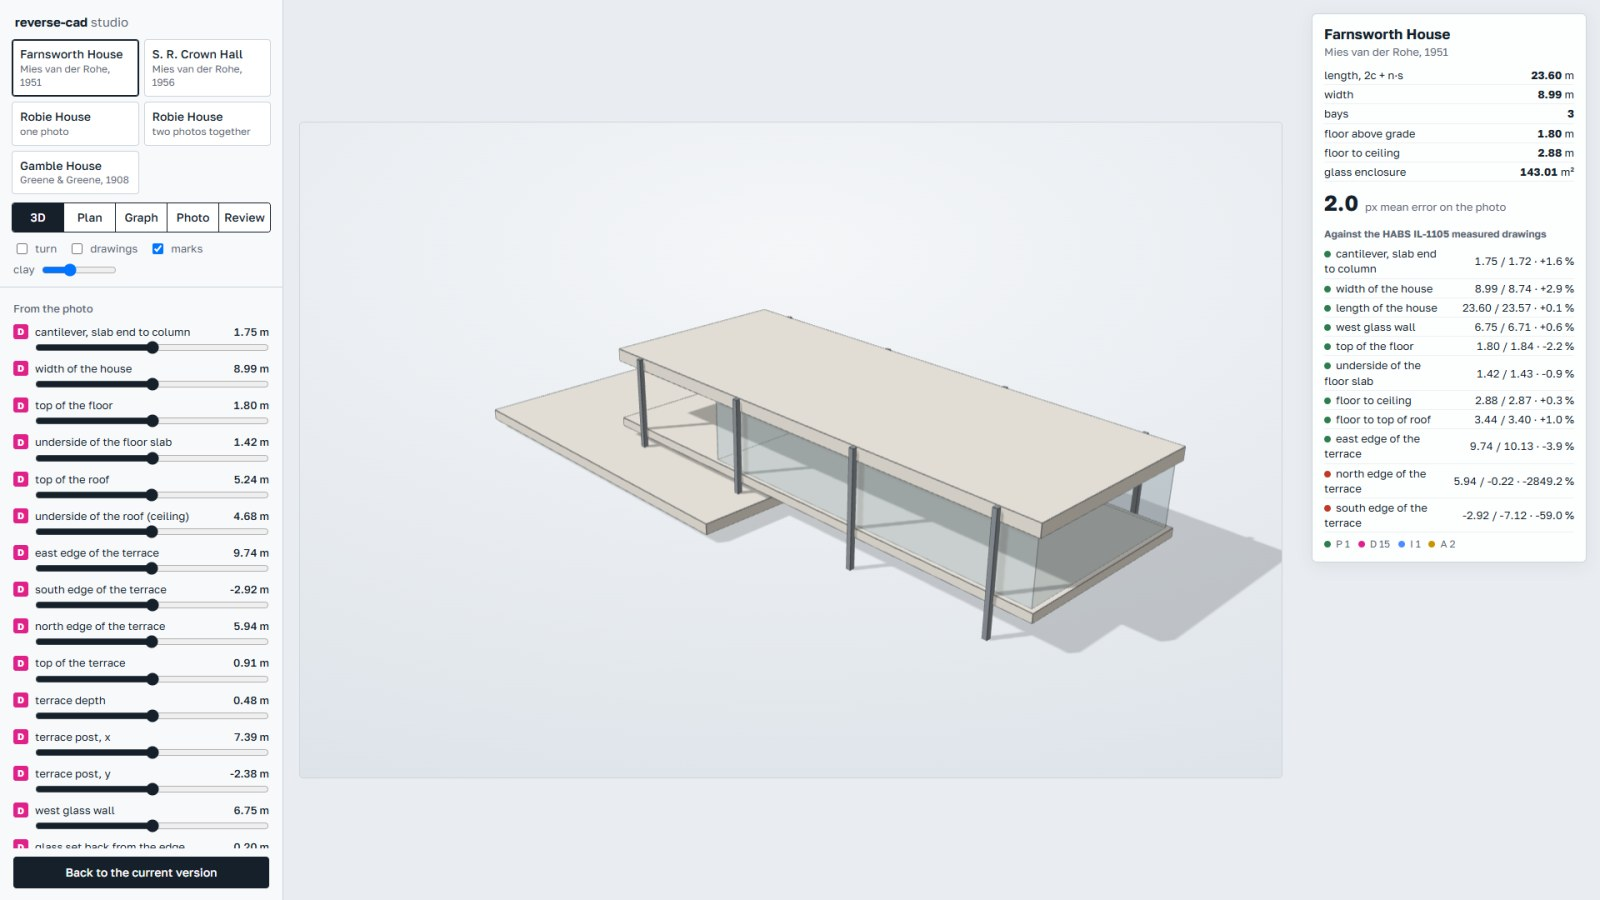
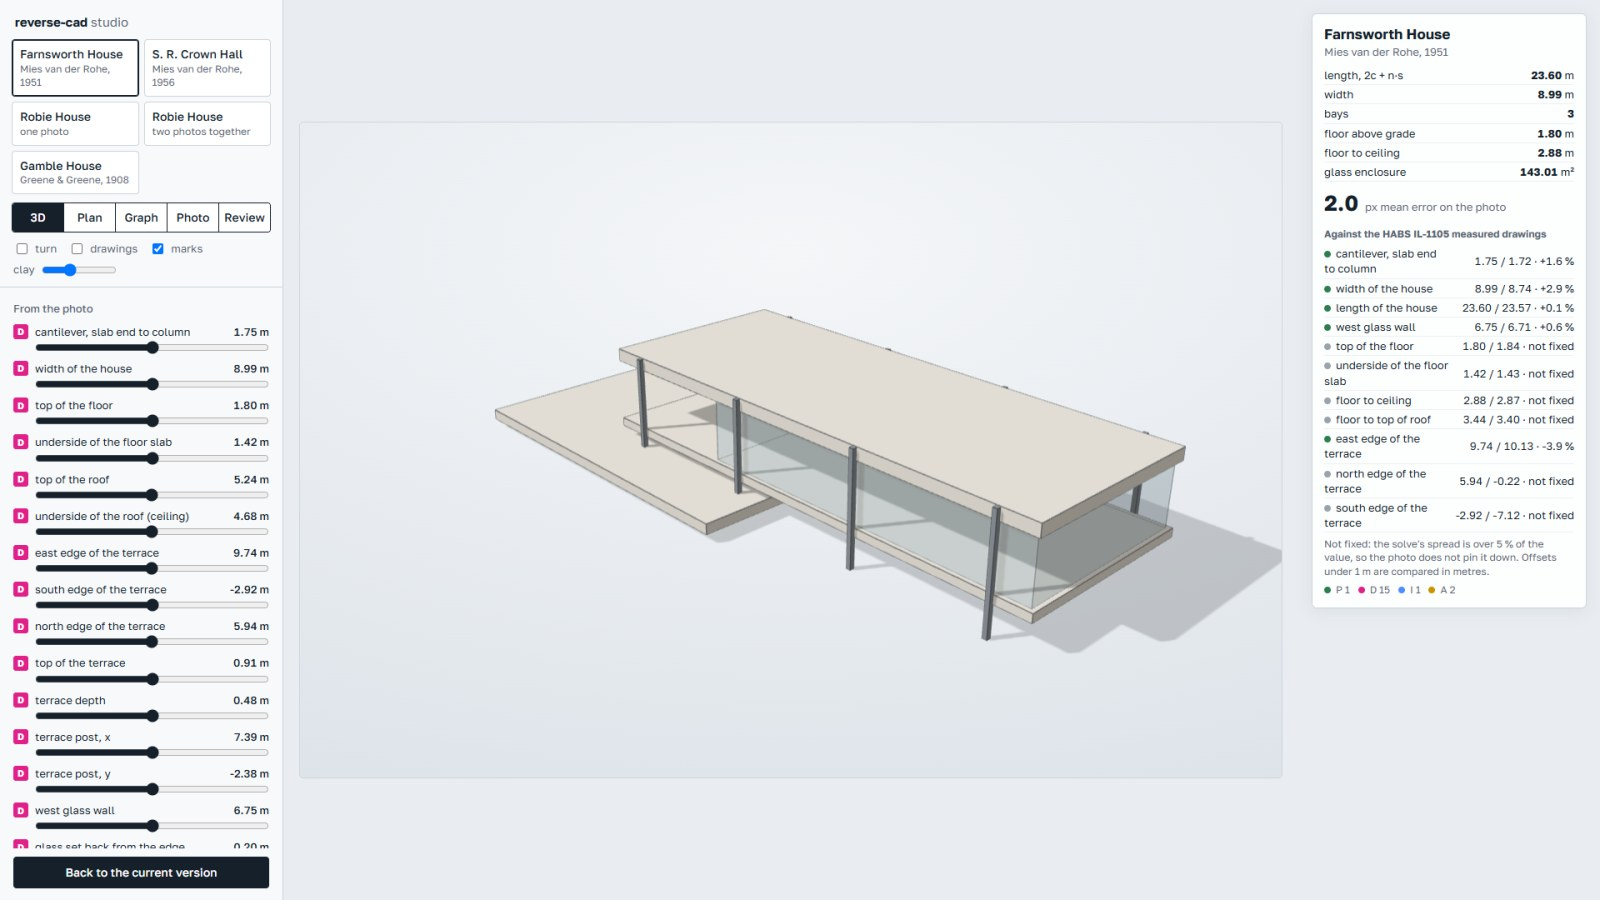
studio: judge checks by the bench rule
A value whose bootstrap spread is over 5 % is shown as not fixed instead of
a red percentage, and offsets under 1 m are compared in metres. The Farnsworth
terrace edges read -2849 % before, a percentage of a near-zero coordinate the
photo does not determine. Review uses the same rule. Screenshots re-taken.

Changed region(s): [[0.8125, 0.5289, 1.0, 0.6533], [0.9062, 0.3733, 1.0, 0.4978], [0.8125, 0.4044, 0.8438, 0.4356]]

diff --git a/studio/index.html b/studio/index.html
@@ -66,6 +66,7 @@
   .fit b { font-size: 26px; font-variant-numeric: tabular-nums; }
   .fit span { color: var(--muted); }
   .grades { display: flex; gap: 10px; margin-top: 6px; color: var(--muted); font-size: 12px; }
+  .info .note { margin: 6px 0 0; color: var(--muted); font-size: 12px; line-height: 1.35; }
   .ref { position: absolute; inset: 0; display: flex; flex-direction: column; align-items: center; justify-content: center;
          background: rgba(21,32,43,.55); opacity: 0; transition: opacity .45s; pointer-events: none; }
   .ref.on { opacity: 1; }
@@ -574,20 +575,33 @@ function showVal(k) {
   el.textContent = fmt(P[k]) + (MODELS[cur.model].design[k]?.step === 1 ? '' : ' m');
   el.classList.toggle('moved', Math.abs(P[k] - (main || P0)[k]) > 1e-9);
 }
+function judge(k, v, t) {
+  // the same rule as tools/bench.py: a bootstrap spread over 5 % of the value means the photo does not fix it
+  const used = (k.match(/[A-Za-z_]\w*/g) || []).filter(n => n in cur.sd);
+  if (used.some(n => cur.sd[n] > 0.05 * Math.abs(cur.params[n])))
+    return { und: true, c: '#9aa3ab', err: 'not fixed' };
+  if (Math.abs(t) < 1) {  // a percentage of a small offset says little: give metres
+    const d = v - t, a = Math.abs(d);
+    return { ok: a <= 0.05, c: a <= 0.05 ? '#2f7d4f' : a <= 0.10 ? '#c99400' : '#c0392b', err: `${d > 0 ? '+' : ''}${d.toFixed(2)} m` };
+  }
+  const e = 100 * (v - t) / t, a = Math.abs(e);
+  return { ok: a <= 5, c: a <= 5 ? '#2f7d4f' : a <= 10 ? '#c99400' : '#c0392b', err: `${e > 0 ? '+' : ''}${e.toFixed(1)} %` };
+}
 function info() {
   if (view === 'review') return reviewPanel();
   const m = MODELS[cur.model].metrics(P), names = Object.keys(P), vals = names.map(k => P[k]);
-  let checks = '';
+  let checks = '', nund = 0;
   for (const [k, t] of Object.entries(cur.truth)) {
     let v; try { v = new Function(...names, 'return (' + k + ');')(...vals); } catch (e) { continue; }
-    const e = 100 * (v - t) / t, c = Math.abs(e) <= 5 ? '#2f7d4f' : Math.abs(e) <= 10 ? '#c99400' : '#c0392b';
-    checks += `<tr><td><span class="dot" style="background:${c}"></span>${cur.labels[k] || k}</td><td>${v.toFixed(2)} / ${t.toFixed(2)} · ${e > 0 ? '+' : ''}${e.toFixed(1)} %</td></tr>`;
+    const j = judge(k, v, t); if (j.und) nund++;
+    checks += `<tr><td><span class="dot" style="background:${j.c}"></span>${cur.labels[k] || k}</td><td>${v.toFixed(2)} / ${t.toFixed(2)} · ${j.err}</td></tr>`;
   }
   const n = { P: 0, D: 0, I: 0, A: 0 }; for (const k of names) n[gradeOf(k)]++;
   $('info').innerHTML = `<h1>${cur.title}</h1><p class="by">${cur.by}</p>
     <table>${m.map(([l, v, u]) => `<tr><td>${l}</td><td><b>${u === '' ? v : v.toFixed(u === '°' ? 1 : 2)}</b> ${u}</td></tr>`).join('')}</table>
     <div class="fit"><b>${rms(P).toFixed(1)}</b><span>px mean error on the photo${cur.photos > 1 ? ' (one of ' + cur.photos + ')' : ''}</span></div>
     <div class="sec">Against the ${cur.ref}</div><table>${checks}</table>
+    ${nund ? `<p class="note">Not fixed: the solve's spread is over 5 % of the value, so the ${cur.photos > 1 ? 'photos do' : 'photo does'} not pin it down. Offsets under 1 m are compared in metres.</p>` : ''}
     <div class="grades">${Object.entries(n).map(([g, c]) => `<span><span class="dot" style="background:${GC[g]}"></span>${g} ${c}</span>`).join('')}</div>`;
 }
 
@@ -633,7 +647,7 @@ function elemDiff(A, B) {
 function checkState(Q) {
   const names = Object.keys(Q), vals = names.map(k => Q[k]), out = {};
   for (const [k, t] of Object.entries(cur.truth)) {
-    try { const v = new Function(...names, 'return (' + k + ');')(...vals); out[k] = Math.abs(100 * (v - t) / t) <= 5; } catch (e) {}
+    try { const j = judge(k, new Function(...names, 'return (' + k + ');')(...vals), t); if (!j.und) out[k] = j.ok; } catch (e) {}
   }
   return out;
 }
@@ -658,7 +672,7 @@ function reviewPanel() {
     const groupList = (ids, c) => [...new Set(ids.map(groupOf))].map(g => { const n = ids.filter(id => groupOf(id) === g).length;
       return `<tr><td><span class="dot" style="background:${c}"></span>${g}${n > 1 ? ' ×' + n : ''}${why(ids.find(id => groupOf(id) === g))}</td><td></td></tr>`; }).join('');
     const c0 = checkState(main), c1 = checkState(P);
-    const flips = Object.keys(c1).filter(k => c0[k] !== c1[k]).map(k => `<tr><td><span class="dot" style="background:${c1[k] ? '#2f7d4f' : '#c0392b'}"></span>${label(k)}</td><td>${c1[k] ? 'now within 5 %' : 'now off the drawings'}</td></tr>`).join('');
+    const flips = Object.keys(c1).filter(k => c0[k] !== c1[k]).map(k => `<tr><td><span class="dot" style="background:${c1[k] ? '#2f7d4f' : '#c0392b'}"></span>${label(k)}</td><td>${c1[k] ? 'now on the drawings' : 'now off the drawings'}</td></tr>`).join('');
     const cf = conflicts();
     body = `<div class="sec">Proposal: ${pr.name}</div><p class="by" style="margin:0 0 6px">${pr.by}, drawn on v${pr.base}</p>
       <table>${params}</table>

diff --git a/tools/studio_template.html b/tools/studio_template.html
@@ -66,6 +66,7 @@
   .fit b { font-size: 26px; font-variant-numeric: tabular-nums; }
   .fit span { color: var(--muted); }
   .grades { display: flex; gap: 10px; margin-top: 6px; color: var(--muted); font-size: 12px; }
+  .info .note { margin: 6px 0 0; color: var(--muted); font-size: 12px; line-height: 1.35; }
   .ref { position: absolute; inset: 0; display: flex; flex-direction: column; align-items: center; justify-content: center;
          background: rgba(21,32,43,.55); opacity: 0; transition: opacity .45s; pointer-events: none; }
   .ref.on { opacity: 1; }
@@ -574,20 +575,33 @@ function showVal(k) {
   el.textContent = fmt(P[k]) + (MODELS[cur.model].design[k]?.step === 1 ? '' : ' m');
   el.classList.toggle('moved', Math.abs(P[k] - (main || P0)[k]) > 1e-9);
 }
+function judge(k, v, t) {
+  // the same rule as tools/bench.py: a bootstrap spread over 5 % of the value means the photo does not fix it
+  const used = (k.match(/[A-Za-z_]\w*/g) || []).filter(n => n in cur.sd);
+  if (used.some(n => cur.sd[n] > 0.05 * Math.abs(cur.params[n])))
+    return { und: true, c: '#9aa3ab', err: 'not fixed' };
+  if (Math.abs(t) < 1) {  // a percentage of a small offset says little: give metres
+    const d = v - t, a = Math.abs(d);
+    return { ok: a <= 0.05, c: a <= 0.05 ? '#2f7d4f' : a <= 0.10 ? '#c99400' : '#c0392b', err: `${d > 0 ? '+' : ''}${d.toFixed(2)} m` };
+  }
+  const e = 100 * (v - t) / t, a = Math.abs(e);
+  return { ok: a <= 5, c: a <= 5 ? '#2f7d4f' : a <= 10 ? '#c99400' : '#c0392b', err: `${e > 0 ? '+' : ''}${e.toFixed(1)} %` };
+}
 function info() {
   if (view === 'review') return reviewPanel();
   const m = MODELS[cur.model].metrics(P), names = Object.keys(P), vals = names.map(k => P[k]);
-  let checks = '';
+  let checks = '', nund = 0;
   for (const [k, t] of Object.entries(cur.truth)) {
     let v; try { v = new Function(...names, 'return (' + k + ');')(...vals); } catch (e) { continue; }
-    const e = 100 * (v - t) / t, c = Math.abs(e) <= 5 ? '#2f7d4f' : Math.abs(e) <= 10 ? '#c99400' : '#c0392b';
-    checks += `<tr><td><span class="dot" style="background:${c}"></span>${cur.labels[k] || k}</td><td>${v.toFixed(2)} / ${t.toFixed(2)} · ${e > 0 ? '+' : ''}${e.toFixed(1)} %</td></tr>`;
+    const j = judge(k, v, t); if (j.und) nund++;
+    checks += `<tr><td><span class="dot" style="background:${j.c}"></span>${cur.labels[k] || k}</td><td>${v.toFixed(2)} / ${t.toFixed(2)} · ${j.err}</td></tr>`;
   }
   const n = { P: 0, D: 0, I: 0, A: 0 }; for (const k of names) n[gradeOf(k)]++;
   $('info').innerHTML = `<h1>${cur.title}</h1><p class="by">${cur.by}</p>
     <table>${m.map(([l, v, u]) => `<tr><td>${l}</td><td><b>${u === '' ? v : v.toFixed(u === '°' ? 1 : 2)}</b> ${u}</td></tr>`).join('')}</table>
     <div class="fit"><b>${rms(P).toFixed(1)}</b><span>px mean error on the photo${cur.photos > 1 ? ' (one of ' + cur.photos + ')' : ''}</span></div>
     <div class="sec">Against the ${cur.ref}</div><table>${checks}</table>
+    ${nund ? `<p class="note">Not fixed: the solve's spread is over 5 % of the value, so the ${cur.photos > 1 ? 'photos do' : 'photo does'} not pin it down. Offsets under 1 m are compared in metres.</p>` : ''}
     <div class="grades">${Object.entries(n).map(([g, c]) => `<span><span class="dot" style="background:${GC[g]}"></span>${g} ${c}</span>`).join('')}</div>`;
 }
 
@@ -633,7 +647,7 @@ function elemDiff(A, B) {
 function checkState(Q) {
   const names = Object.keys(Q), vals = names.map(k => Q[k]), out = {};
   for (const [k, t] of Object.entries(cur.truth)) {
-    try { const v = new Function(...names, 'return (' + k + ');')(...vals); out[k] = Math.abs(100 * (v - t) / t) <= 5; } catch (e) {}
+    try { const j = judge(k, new Function(...names, 'return (' + k + ');')(...vals), t); if (!j.und) out[k] = j.ok; } catch (e) {}
   }
   return out;
 }
@@ -658,7 +672,7 @@ function reviewPanel() {
     const groupList = (ids, c) => [...new Set(ids.map(groupOf))].map(g => { const n = ids.filter(id => groupOf(id) === g).length;
       return `<tr><td><span class="dot" style="background:${c}"></span>${g}${n > 1 ? ' ×' + n : ''}${why(ids.find(id => groupOf(id) === g))}</td><td></td></tr>`; }).join('');
     const c0 = checkState(main), c1 = checkState(P);
-    const flips = Object.keys(c1).filter(k => c0[k] !== c1[k]).map(k => `<tr><td><span class="dot" style="background:${c1[k] ? '#2f7d4f' : '#c0392b'}"></span>${label(k)}</td><td>${c1[k] ? 'now within 5 %' : 'now off the drawings'}</td></tr>`).join('');
+    const flips = Object.keys(c1).filter(k => c0[k] !== c1[k]).map(k => `<tr><td><span class="dot" style="background:${c1[k] ? '#2f7d4f' : '#c0392b'}"></span>${label(k)}</td><td>${c1[k] ? 'now on the drawings' : 'now off the drawings'}</td></tr>`).join('');
     const cf = conflicts();
     body = `<div class="sec">Proposal: ${pr.name}</div><p class="by" style="margin:0 0 6px">${pr.by}, drawn on v${pr.base}</p>
       <table>${params}</table>
